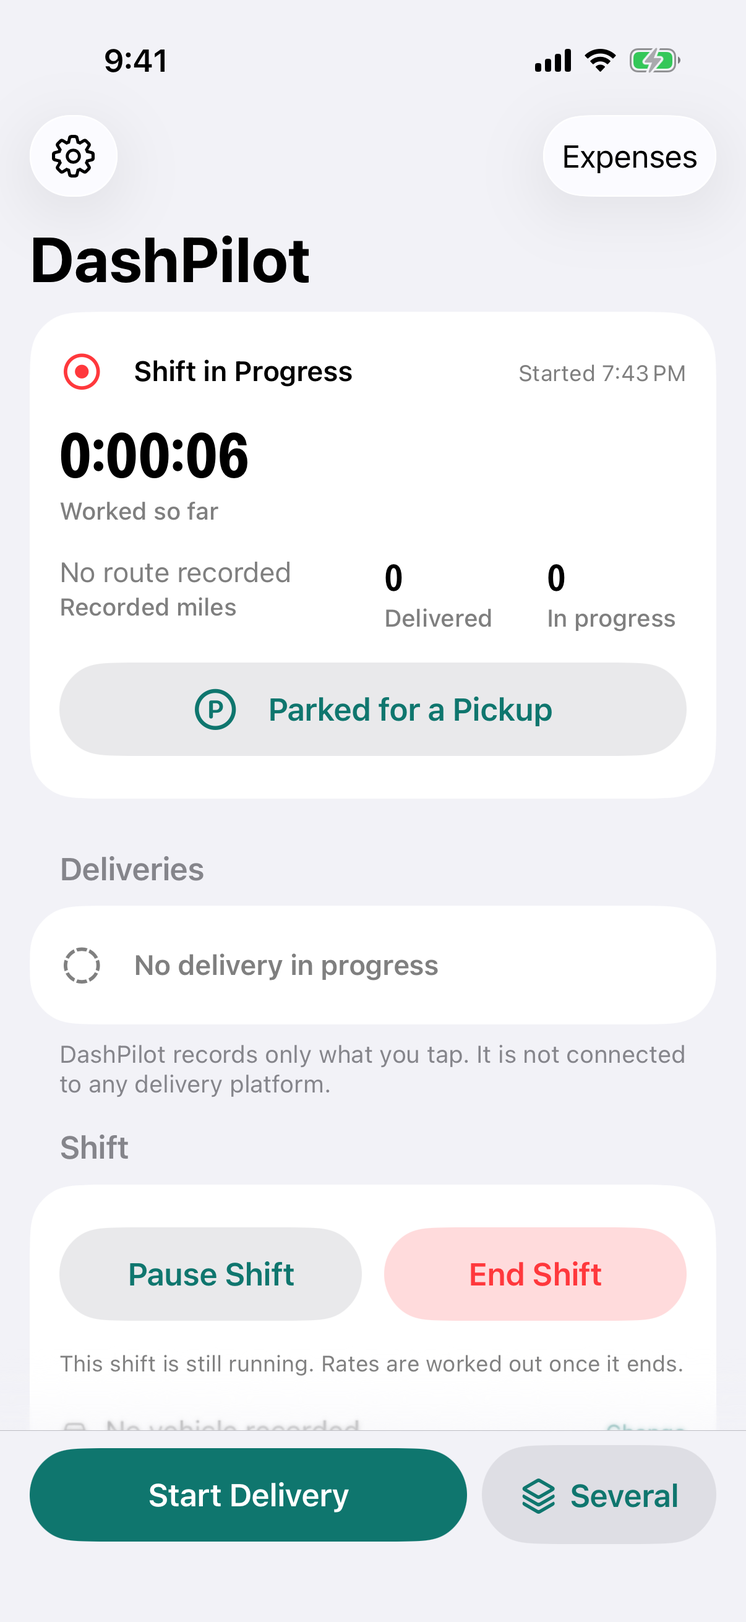
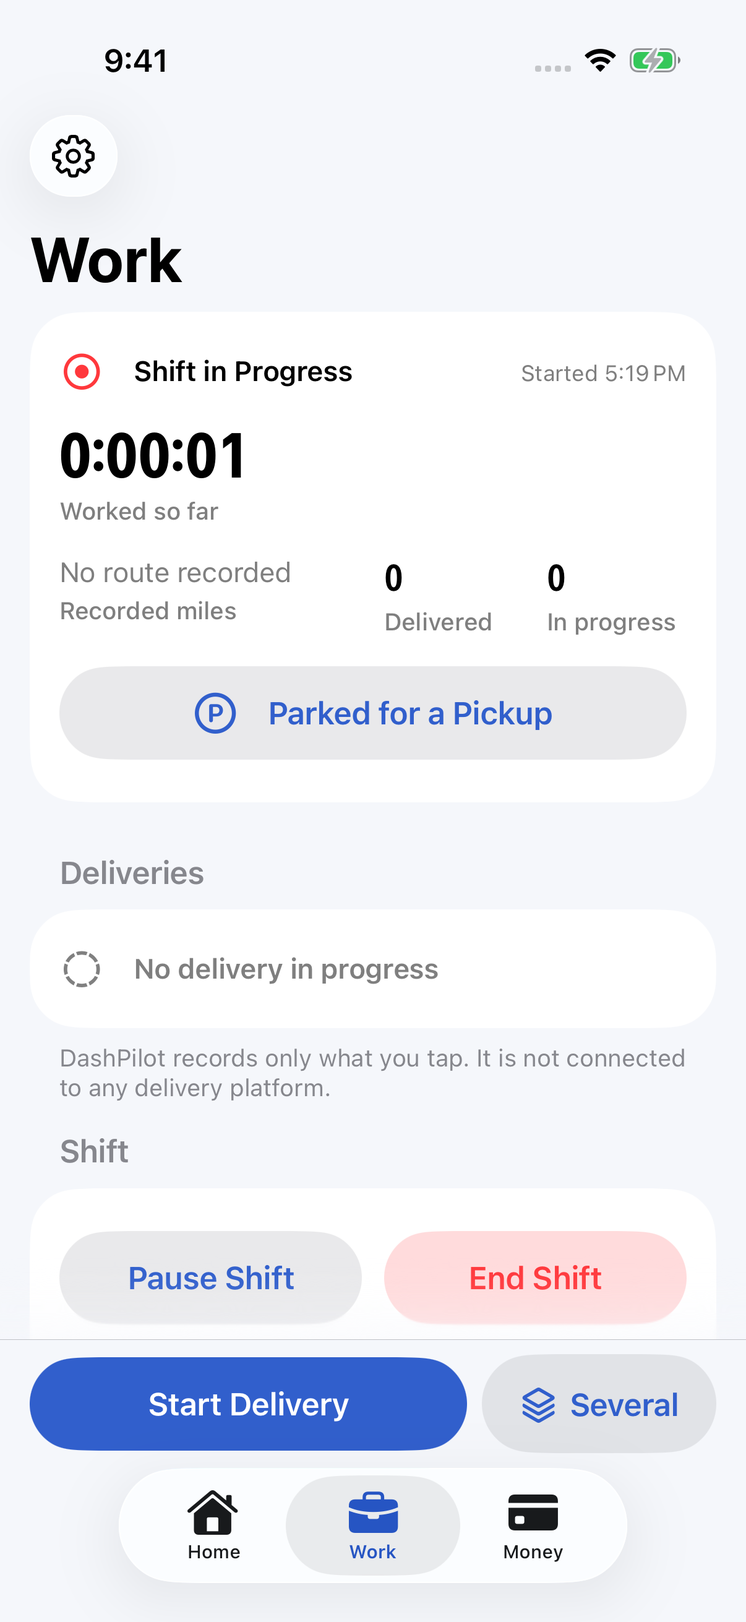
docs: refresh release screenshots and reconcile readiness guidance

diff --git a/docs/development/release-readiness.md b/docs/development/release-readiness.md
@@ -1,6 +1,6 @@
 # Release readiness
 
-This checklist is for a separately authorized release-readiness interval. Repository tags
+This checklist records the local release-candidate review of October 19-20, 2026. Repository tags
 `v0.1.0` and `v0.1.1` exist; the current source has moved beyond them. This page does not establish
 App Store Connect or TestFlight submission status, and documentation validation does not release anything.
 
@@ -8,26 +8,36 @@ App Store Connect or TestFlight submission status, and documentation validation 
 
 | Item | Current value | Status |
 | --- | --- | --- |
-| Display name | `DashPilot` (`INFOPLIST_KEY_CFBundleDisplayName`) | Ready |
-| App bundle identifier | `quang.DashPilot` | Decide before the first upload; see below |
-| Widget extension identifier | `quang.DashPilot.Widgets` | Follows the app's |
+| Display name | `DashPilot` (app product name; explicit widget display name) | Retained pending identity approval |
+| App bundle identifier | `quang.DashPilot` | Preserve for existing installations |
+| Widget extension identifier | `quang.DashPilot.Widgets` | Preserve |
 | Marketing version | `1.0` (Xcode's default, never chosen) | Reconcile with the next approved release version |
-| Build number | `1` (`CURRENT_PROJECT_VERSION`) | Ready for a first build |
+| Build number | `1` (`CURRENT_PROJECT_VERSION`) | Confirm against submission history before distribution |
 | Deployment target | iOS 26.5, all targets | Ready |
-| Device family | iPhone and iPad (`TARGETED_DEVICE_FAMILY = 1,2`) | Decide; see below |
+| Device family | iPhone and iPad (`TARGETED_DEVICE_FAMILY = 1,2`) | Retained; physical-device checks outstanding |
 | Signing team | set in the project; no signing in CI | Unchanged by design |
 
 **Version.** The repository has `v0.1.0` and `v0.1.1` tags, while Xcode still declares `1.0`.
-Reconcile that mismatch in the release-readiness interval. No version, tag or release is changed
-by the onboarding and documentation interval.
+The proposed next repository milestone is `v0.2.0`, under DashPilot unless a different name is
+separately approved. Before distribution, explicitly approve the matching marketing version and
+a build number valid for the actual submission history. No version, tag or release changed in this review.
 
-**Bundle identifier.** `quang.DashPilot` is accepted by App Store Connect, but it is not reverse
-DNS, and an identifier cannot change after the first upload without becoming a different app.
-Decide it before the first TestFlight build, not after.
+**Name approval.** Worklane remains a working name with material conflicts. The preliminary
+October 19 investigation found a live pending US class 042 application,
+[WORKLANE, serial 99594941](https://tsdr.uspto.gov/#caseNumber=99594941&caseSearchType=US_APPLICATION&caseType=DEFAULT&searchType=statusSearch),
+and existing [Worklane](https://apps.apple.com/us/app/worklane/id6758229814) and
+[WorkLane](https://apps.apple.com/gb/app/worklane/id6786815326) business apps. This is not legal
+clearance. Keep DashPilot's shipping name and artwork until the owner resolves the conflict and
+separately approves a public identity. Concept artwork is not a shipping asset.
 
-**iPad.** The app declares iPad support and every iPad orientation, while every journey and every
-screenshot is iPhone portrait. A store submission that keeps iPad needs iPad screenshots and an iPad
-layout check; one that drops it should set `TARGETED_DEVICE_FAMILY = 1`.
+**Bundle identifier.** Preserve `quang.DashPilot` and `quang.DashPilot.Widgets`. A cosmetic rename
+must not become a new application or lose access to its existing sandbox. Keep module and target
+names, model identities, frozen schemas, default store configuration, onboarding preference keys,
+intent types and Live Activity attribute types unchanged.
+
+**iPad.** The app retains iPad support. Representative simulator journeys and layout captures exist;
+they do not establish landscape, multitasking, physical-device VoiceOver or App Store screenshot
+completeness. A submission still needs its required device-specific screenshots.
 
 ## Assets and appearance
 
@@ -36,7 +46,7 @@ layout check; one that drops it should set `TARGETED_DEVICE_FAMILY = 1`.
 - **Launch appearance:** generated (`UILaunchScreen_Generation`), the system background. Ready.
 - **Typeface:** the system face; neither the app nor the widget bundles a font
   (`FontBundleInvariantTests`).
-- **Accent:** teal `AccentColor` with a dark variant.
+- **Accent:** adaptive blue `AccentColor`, shared with Live Activity roles; see the [design system](design-system.md).
 
 ## Capabilities and configuration
 
@@ -66,7 +76,7 @@ Every statement below is true of the code as it stands. None is broader than the
 - **Data stored on the device:** shifts and their times, pauses and parked stretches, deliveries and
   their lifecycle times, the route positions captured while a shift runs, pickup-place names the
   driver typed, earnings, tips, expected pay and expenses the driver entered, vehicle profiles and a
-  gas price. All of it is in the app's own SwiftData store.
+  gas price. Work records are in the app's own SwiftData store. The onboarding completion version is an app-local `UserDefaults` preference.
 - **Location:** used only while a shift the driver started is running, When In Use only, continuing
   in the background once started with the app open. Positions are stored to measure recorded
   mileage; the standard export carries distances and never coordinates.
@@ -79,10 +89,12 @@ Every statement below is true of the code as it stands. None is broader than the
   and removed from the temporary directory at the next launch.
 - **App Privacy label:** with nothing collected (in Apple's sense, sent off the device), the label
   would be "Data Not Collected". Confirm against the questionnaire at submission time.
-- **Privacy manifest:** no `PrivacyInfo.xcprivacy` is present. Onboarding uses `UserDefaults` for
-  its completion record. The earlier claim that the app uses no required-reason API was stale.
-  Review the current Apple requirements and the app's actual API use before submission; this
-  documentation interval makes no privacy-manifest or submission-compliance claim.
+- **Privacy manifest:** `DashPilot/PrivacyInfo.xcprivacy` declares no tracking, no collected data
+  types and app-local `UserDefaults` access for the onboarding completion version using `CA92.1`.
+  This matches [Apple's required-reason API guidance](https://developer.apple.com/documentation/bundleresources/app-privacy-configuration/nsprivacyaccessedapitypes/nsprivacyaccessedapitypereasons).
+  Source review found no direct use of the other required-reason API categories. Confirm the built
+  archive's privacy report and App Privacy questionnaire before any submission; a simulator build
+  is not App Store validation.
 
 ## Product positioning
 
@@ -101,22 +113,33 @@ else. The documentation toolchain (MkDocs) is a build-time dependency only.
 
 ## Documentation and screenshots
 
-- README is a concise introduction with two existing screenshots and links into this site.
-- The screenshots are simulator captures of synthetic fixture data, taken by UI journeys
-  (`attachScreenshot`) on iPhone 17 with the status bar set to 9:41. No real earnings, places,
-  restaurants, customers or routes appear in any of them.
+- README shows the current Home, Work and Money workspaces with links into this site.
+- Permanent images are unaltered iPhone 17 simulator captures from the reviewed source, taken on
+  October 19-20, 2026 using Xcode 27.1 and iOS 26.5. They use synthetic fixtures or records entered
+  through UI journeys and a 9:41 status bar. No real earnings, places, customers or routes appear.
+- UI journeys retain their original 40-test scope. Additional light/dark, narrow-phone, AX5 and
+  iPad evidence stays outside the repository. Diagnostic extreme-value captures are not marketing images.
+- All captures retain DashPilot. After an approved identity change, recapture any affected screens,
+  especially onboarding, Settings, permission explanations, delivery disclaimers and export presentation.
+  These documentation images are not a complete App Store screenshot submission.
 - A release-notes draft is in [Release notes draft](release-notes-draft.md).
 
-Existing synthetic captures, retained for reference. Some predate Home / Work / Money and the
-current financial layouts. Replace the permanent set only in the release-readiness interval:
+The main workspaces and reports:
+
+![Home's completed-week earnings with explicit coverage](../images/screenshots/home-workspace.png){ width="200" }
+![Money's recorded earnings and expenses](../images/screenshots/money-workspace.png){ width="200" }
+![Insights with weekly recorded gross earnings](../images/screenshots/insights-earnings.png){ width="200" }
+![A selected period report](../images/screenshots/period-summary.png){ width="200" }
+![This week's History with its summary](../images/screenshots/history-current-week.png){ width="200" }
+![A completed shift with recorded earnings and partial mileage](../images/screenshots/detail-summary.png){ width="200" }
+
+Active work and preferences:
 
 ![A running shift with nothing in progress and Start Delivery pinned at the bottom](../images/screenshots/home-active-no-deliveries.png){ width="200" }
 ![One delivery in progress, its next step on the card and Add Delivery pinned below](../images/screenshots/home-one-delivery.png){ width="200" }
-![Two stacked deliveries in different states](../images/screenshots/home-stacked-deliveries.png){ width="200" }
+![Work with stacked deliveries and separate lifecycle actions](../images/screenshots/work-workspace.png){ width="200" }
 ![A parked shift with Resume Driving under the parked banner](../images/screenshots/home-parked.png){ width="200" }
 ![The several-delivery sheet: count, Same pickup, Same drop-off and a pinned Start 3 Deliveries](../images/screenshots/offer-sheet-three-shared.png){ width="200" }
-![This week's History with its summary](../images/screenshots/history-current-week.png){ width="200" }
-![A completed shift's detail](../images/screenshots/detail-summary.png){ width="200" }
 ![Settings, Pickup & Parking](../images/screenshots/settings-pickup-parking.png){ width="200" }
 
 ## Continuous integration
@@ -129,9 +152,9 @@ for the build and both full suites; see
 ## Before tagging
 
 1. Open the pull request for the release branch and require CI green.
-2. Decide the bundle identifier and whether iPad is supported.
+2. Preserve application identifiers and complete the declared iPhone and iPad device checks.
 3. Reconcile `MARKETING_VERSION` and the build number with the approved release and submission history.
-4. Review current privacy-manifest requirements against actual API use, including `UserDefaults`.
+4. Review the archive privacy report and current submission requirements against actual API use.
 5. Run the app on a physical iPhone through one real shift, including the Lock Screen card and a
    background stretch, which no automated test can do.
-6. Tag the release commit; nothing in this repository tags or publishes automatically.
+6. Obtain explicit approval before tagging, publishing, deploying or submitting anything. CI does not authorize release actions.

diff --git a/docs/architecture/persistence.md b/docs/architecture/persistence.md
@@ -1,7 +1,8 @@
 # Persistence
 
-SwiftData is the only store. There is no cache, no file export, no defaults-backed copy of shift
-data and no remote database.
+SwiftData holds the work records. There is no defaults-backed copy of shift data and no remote
+database. The onboarding completion version uses app-local UserDefaults. Explicit
+[file exports](../product/history-export.md) are separate from persistence and cannot be imported.
 
 ## Container construction
 
@@ -21,7 +22,7 @@ device.
 
 | Entry point | Used by | Behaviour |
 | --- | --- | --- |
-| `makeContainer()` | The app | Current schema, migration plan, on-disk store |
+| `makeAppContainer()` | The app | Current schema, migration plan, on-disk store |
 | `makeContainer(at:)` | Tests | The same, at an explicit URL, so a store can be closed and reopened |
 | `makeContainer(versionedSchema:at:)` | Tests | A store opened under a historical version *without* the plan, so a test can write a store shaped the way an older build would have left it |
 | `makeInMemoryContainer()` | Tests, previews | Current schema and plan, nothing on disk |
@@ -30,10 +31,10 @@ device.
 
 Eleven entities. Their fields are listed under [Data model](../reference/data-model.md).
 
-`Shift` holds a start timestamp, an optional end timestamp, an optional gross earnings amount and
-the two optional figures its fuel estimate is worked out under. Everything else about a shift,
+`Shift` holds its identity, lifecycle timestamps, optional gross earnings, and snapshots of its
+vehicle name, fuel assumptions and hourly target. Measurements about a shift,
 including its lifecycle state, its durations, its distance, its rates, its estimated fuel and its
-estimated net, is derived when it is asked for.
+estimated net, are derived when requested.
 
 `ShiftPause` stores when the driver recorded pausing and, once they resume, when they recorded
 resuming. It is a row rather than a flag on `Shift` because a boolean could say a shift is paused now
@@ -49,9 +50,10 @@ from a shopping trip coming off somebody's hours. It joins the shift and never a
 driver shopping for one order while carrying another has one vehicle and it is parked.
 
 `Delivery` stores five timestamps, its shift and the offer it arrived in. Its state is derived from
-which of those timestamps exist rather than stored beside them, so nothing in the store can disagree
-with the events it summarises. Nothing identifying a restaurant, a customer or an address is stored,
-and no amount is attributed to a delivery.
+which of those timestamps exist rather than stored beside them. It also holds optional driver-entered
+pickup-place, expected-pay and gross-earnings facts, plus shared-stop identifiers and pickup provenance.
+Customer details and addresses are not stored. Delivery gross remains independent of shift gross;
+neither amount is inferred from the other.
 
 `Offer` stores when the driver recorded accepting one piece of work, and holds the deliveries it
 contained. It exists because one acceptance can contain more than one dropoff, and before it the
@@ -199,7 +201,7 @@ its deliveries.
 Membership is by date. A period contains an expense if its `occurredAt` falls in the period, by the
 same half-open rule that puts a shift in one. Two consequences follow directly from the shape: no
 **recorded** cost is attached to a shift or a delivery, so no recorded net exists at shift level, and
-deleting a shift cascades to nothing, because an expense has no relationship to be cascaded along,
+deleting a shift cascades to no expense, because an expense has no relationship to be cascaded along,
 and the cost happened whether or not the shift's record is still there. A shift's estimated net after
 fuel is not a counter-example: its subtrahend comes from that shift's own recorded mileage and its
 own recorded assumptions, and no expense enters it.

diff --git a/docs/product/shift-workflow.md b/docs/product/shift-workflow.md
@@ -1,6 +1,6 @@
 # Shift workflow
 
-A shift is the unit everything else attaches to. This page follows one from the driver's side; the
+A shift groups its deliveries, pauses and recorded route. Expenses have their own dates and remain independent. This page follows one from the driver's side; the
 implementation is described under [Architecture](../architecture/overview.md).
 
 ```mermaid
@@ -30,6 +30,8 @@ flowchart TD
 ```
 
 ## Starting a shift
+
+![Work with a running shift and no delivery yet](../images/screenshots/home-active-no-deliveries.png){ width="260" }
 
 Home and Work offer a start control while no shift is running. Starting from Home opens Work. The panel answers what starting now
 would record: a quiet `No shift in progress`, then **Next shift records** with the selected vehicle's
@@ -634,10 +636,9 @@ The boundary comes from `Calendar`, never from a count of seconds. A week holdin
 change is 167 or 169 hours and is still one week, and a week running from December into January is
 one week in two years.
 
-History's week always starts on Monday, which is the one place it differs from a period summary's
-week: that one starts on the day the driver's **device** says a week starts, which in the United
-States is Sunday. Both screens name the dates they cover, so the difference is readable rather than
-hidden. Nothing else differs, and no figure moves.
+History, Home, Money, Insights and period summaries all use the same Monday-first reporting
+calendar, regardless of the device's preferred first weekday. Each screen names its dates.
+Changing the reporting timezone can change membership without changing a recorded timestamp.
 
 Everything before this week is under **View Older Weeks**, a row at the end of the History section,
 present only when there is something older. It says how much is behind it (`3 weeks · 3 shifts`) and

diff --git a/docs/development/release-notes-draft.md b/docs/development/release-notes-draft.md
@@ -1,11 +1,30 @@
 # Release notes draft
 
-**0.1.0** was tagged and released on October 3, 2026, with the notes below. **0.1.1** is a draft:
-nothing has been tagged or released for it. See [Release readiness](release-readiness.md).
+**0.1.0** was released on October 3, 2026; **0.1.1** was released on October 7, 2026.
+The next version below is a proposal, not a tag or an authorized release.
+See [Release readiness](release-readiness.md).
+
+## DashPilot 0.2.0 (proposed)
+
+- Home, Work and Money organize starting work, active delivery controls and financial history.
+- Home summarizes completed work for the current Monday-Sunday week, with coverage beside each metric.
+- Money brings weekly recorded expenses, category filtering and clearly qualified net figures together.
+- Weekly Insights shows recorded gross earnings, paired hourly rates and expense categories, with
+  readable text alternatives at accessibility sizes.
+- A refreshed welcome introduces the workspaces and optional future-shift hourly targets.
+- Updated documentation and synthetic simulator screenshots describe the current application.
+- The app declares its app-local onboarding preference use in a privacy manifest.
+
+Public identity remains DashPilot. The working name Worklane is not approved.
+SwiftData remains v22 and export remains v6. Recorded mileage can be partial; missing amounts stay
+missing, shift and delivery earnings remain independent, and fuel estimates are not recorded expenses.
+Physical-device accessibility, Live Activity and long-shift battery checks remain outstanding.
 
 ---
 
-## DashPilot 0.1.1 (draft)
+<span id="dashpilot-011-draft"></span>
+
+## DashPilot 0.1.1
 
 A hardening release from a real shift on October 3, 2026.
 

diff --git a/docs/reference/limitations.md b/docs/reference/limitations.md
@@ -592,9 +592,9 @@ parking` whose pickups stores may still hold.
   describe no wait anybody experienced.
 - **No merchant analysis.** The distinct pickup-place count is a count; no earnings, wait or score is
   grouped by place.
-- **Aggregates are recomputed on every view.** A period's routes are measured when it is selected, so
-  a week of long routes is measured again each time the driver switches to it. Acceptable at current
-  route sizes; caching is deferred until there is a measurement behind it.
+- **Aggregates are derived, never persisted.** Unchanged requests can reuse a screen's current
+  result. Selecting a different report or invalidating its records reloads it, including route
+  measurement off the main actor. There is no global aggregate cache.
 
 ## Recorded expenses
 
@@ -689,9 +689,9 @@ parking` whose pickups stores may still hold.
   [Shift Live Activity](../product/live-activity.md).
 - **No screen has been judged on a physical iPhone in the new design.** The layouts were checked on
   the simulator at the default size and the largest accessibility size.
-- **History's first shift is below the fold on a phone.** The current week now opens with its own
-  summary, so on the root screen a driver scrolls past the shift panel, Location and that summary
-  before reaching the first row. The summary is the answer most visits want, which is why it leads.
+- **History's first shift can be below the fold on a phone.** Work places active controls and
+  Location before the current-week summary and its rows. Home's View History opens the dedicated
+  History list, which begins with the same summary.
 
 ## History
 

diff --git a/docs/product/expenses.md b/docs/product/expenses.md
@@ -8,6 +8,8 @@ built out of records the driver typed, and nothing else.
 
 ## Money workspace
 
+![Money's selected week, earnings coverage, recorded expenses and net](../images/screenshots/money-workspace.png){ width="260" }
+
 Money opens on the current Monday-to-Sunday week, with previous/next week navigation and a This Week
 reset. The date range names the selected days. Add Expense stays near the top. Recorded shift gross
 shows contributing completed-shift coverage; delivery earnings remain independent. Recorded expenses
@@ -28,6 +30,8 @@ Estimated fuel consumption is a separate expandable section, based on recorded m
 assumptions of each shift. It carries shift, mileage and partial-route coverage. Recorded fuel purchases
 and estimated consumption are different views of cost; estimates are never subtracted from the recorded
 net. Routes are loaded only after the section is requested.
+
+![Fuel category filtering and the separate partial-route fuel estimate](../images/screenshots/money-filter-fuel.png){ width="260" }
 
 All Recorded Expenses opens the full ledger. Period Summaries starts on Money's selected week and
 provides days, weeks, months, custom ranges, comparisons and explicit JSON/CSV export. No new expense

diff --git a/docs/product/insights.md b/docs/product/insights.md
@@ -5,6 +5,8 @@ Home, Work and Money remain the three tabs. Work and its active controls stay on
 
 ## Reading the history
 
+![Weekly earnings chart with a selected week and coverage](../images/screenshots/insights-earnings.png){ width="260" }
+
 The range contains eight consecutive Monday-to-Sunday weeks, ending with Money's selected week.
 Earlier Weeks steps back eight weeks; Latest Weeks returns to the current week. The range follows
 `ReportingPeriod.weekCalendar`, including the reporting timezone, DST and year boundaries. Internally
@@ -34,6 +36,8 @@ including empty ones. A series without qualifying money explains the absence ins
 All arithmetic and exact labels use Decimal-backed `Money`. Binary floating point is used only to
 position marks and format chart axes. Axes use USD, compact labels and a zero baseline. No money is
 inferred from delivery records, missing records, chart geometry or historical patterns.
+
+![Recorded expense categories with exact amounts, including recorded zero](../images/screenshots/insights-expenses.png){ width="260" }
 
 ## Previous week
 

diff --git a/docs/product/period-summaries.md b/docs/product/period-summaries.md
@@ -2,6 +2,8 @@
 
 ## Home's weekly overview
 
+![Home's completed-week overview with earnings coverage](../images/screenshots/home-workspace.png){ width="260" }
+
 Home opens with the next work action and a **This Week** overview of completed shifts. The week
 uses Monday-to-Sunday boundaries in the device calendar and timezone and assigns each completed shift by its start, including an
 overnight shift in full. Running shifts never contribute, even if they already have earnings.
@@ -514,7 +516,8 @@ driver stepped to, and its figures do not change underneath them.
 
 ## What is deliberately absent
 
-- **No charts.** Figures are read as text.
+- **No charts in a period report.** Figures are read as text. Money's separate
+  [Insights](insights.md) screen provides weekly charts and accessible exact values.
 - **No third period.** A period is compared with the one immediately before it and
   with nothing else: no series, no trend line, no best or worst day and no streak.
 - **No merchant ranking or profitability by place.** The pickup-place count is a

diff --git a/README.md b/README.md
@@ -15,11 +15,12 @@
 </p>
 
 <p align="center">
-  <img src="docs/images/screenshots/work-workspace.png" alt="Work with an active shift and stacked delivery controls" width="250">
-  <img src="docs/images/screenshots/detail-summary.png" alt="A completed shift with recorded earnings, time and mileage" width="250">
+  <img src="docs/images/screenshots/home-workspace.png" alt="Home with completed-week earnings and explicit coverage" width="220">
+  <img src="docs/images/screenshots/work-workspace.png" alt="Work with an active shift and stacked delivery controls" width="220">
+  <img src="docs/images/screenshots/money-workspace.png" alt="Money with recorded earnings, expenses and qualified net" width="220">
 </p>
 
-*Existing screenshots use synthetic records and may differ from the current layout.*
+*Current simulator captures with synthetic records. [Screenshot details](https://quangshuynh.github.io/dashpilot/development/release-readiness/#documentation-and-screenshots).*
 
 ## Your work, clearly recorded
 

diff --git a/docs/product/pickup-identity.md b/docs/product/pickup-identity.md
@@ -279,7 +279,9 @@ deliberately small.
 Pickup-place names are work history. For a driver who works a small area they are close to a
 description of where that driver is, so they are treated the same way coordinates and earnings are.
 
-- They stay on the device. There is no network code, no lookup, no sync and no export.
+- They stay on the device unless the driver explicitly exports and shares history. Standard
+  [exports](history-export.md) include display names, never normalized pickup-place keys.
+  There is no network lookup or sync.
 - **They are never logged.** The `pickup-place` log category records that a place was assigned,
   changed, removed, reused, created, renamed or merged, and which rule refused an operation — never
   the spelling typed, never the normalised key derived from it, and never how many deliveries a

diff --git a/docs/product/first-shift.md b/docs/product/first-shift.md
@@ -5,6 +5,8 @@ import orders or earnings from another app. No account, target or financial setu
 
 ## A short welcome
 
+![The first welcome page, with Get Started and Skip](../images/screenshots/onboarding-welcome.png){ width="260" }
+
 The four welcome pages introduce the app, tracking work, understanding money and local-first
 privacy. Use **Next** and **Back**, or **Skip** to start exploring immediately. Skipping and finishing
 both mark the welcome as seen. An established install with recorded shifts is not interrupted.

diff --git a/docs/product/delivery-lifecycle.md b/docs/product/delivery-lifecycle.md
@@ -14,6 +14,8 @@ the app is closed.
 
 ## The five states
 
+![A delivery's recorded state and its next lifecycle action](../images/screenshots/home-one-delivery.png){ width="260" }
+
 ```mermaid
 stateDiagram-v2
     [*] --> accepted: Start Delivery
